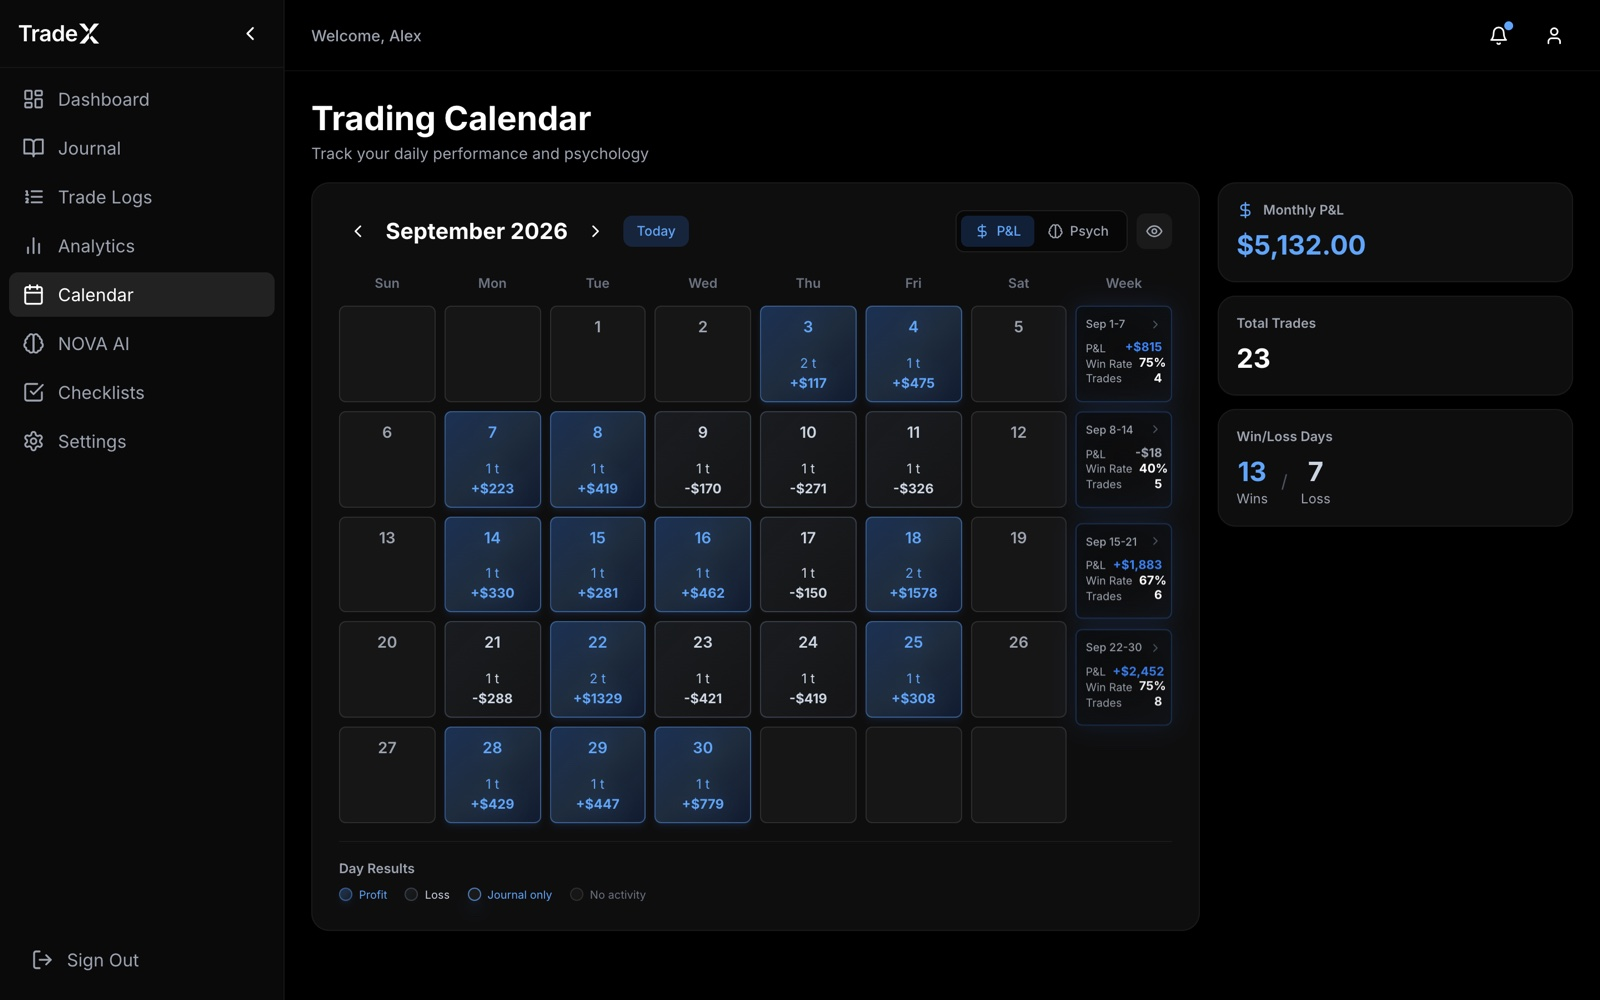
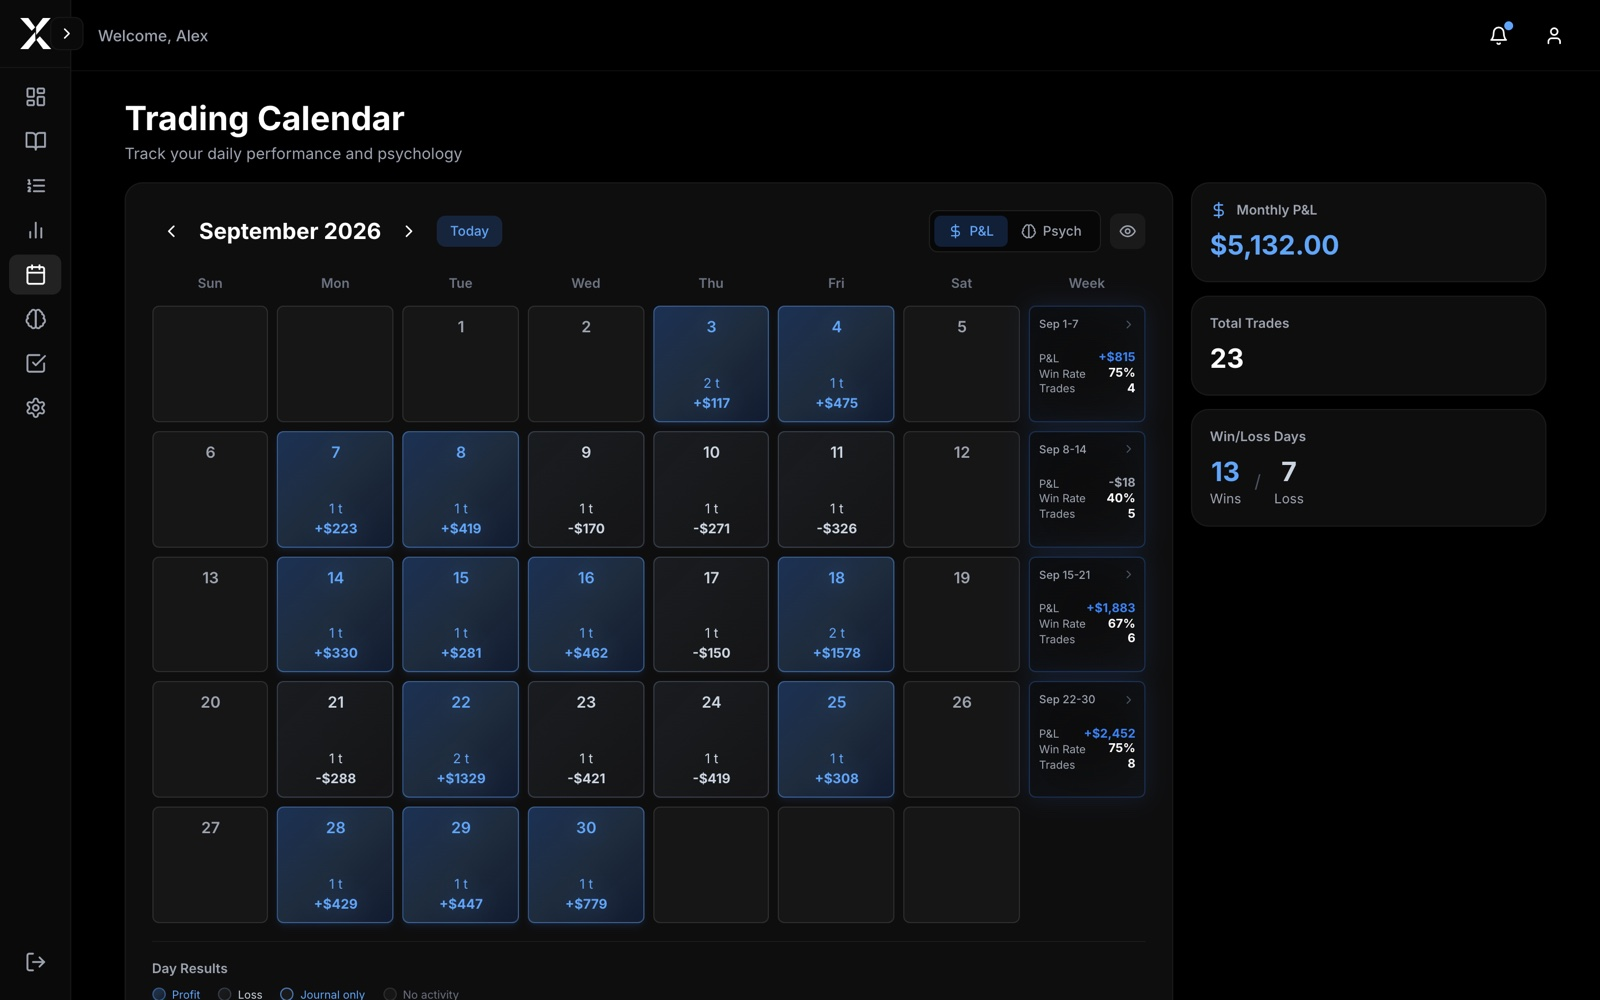
Replace Nova's drawn chat with Nova actually answering
Of all the hand-drawn UI on this page, the Nova section's was the least
defensible. It was a written chat bubble - "Why am I losing on Fridays?" with
an invented reply - sitting under a heading that claims the answer comes from
your own entries. An answer somebody typed into a marketing page cannot
demonstrate that. It demonstrates the opposite of it.

The screenshot is Nova answering for real on the demo account, with numbers
that came out of the database: eight ES trades at a 50% win rate netting
$124, against XAUUSD five from five for $3,502, and Thursdays as the only
losing day of the week. Nobody wrote those sentences. They are what the
account contains, which is the entire claim.

The three feature columns under it went too. "Writes your entries" was
repeating the section two above it, and the screenshot says the other two
better than a caption does.

Also in this pass:

- The nav is collapsed on every screenshot now, not just the journal. The set
  read as three different products, and eight nav labels are not the thing
  being sold on any of them.
- Calendar and analytics are stacked rather than side by side. Two 1600px
  screenshots in a two-column grid render about 550px wide, which is below
  the width at which any of their numbers can be read - the page was showing
  two pictures of something illegible and calling it a demonstration.
- vite.config's allowlist gains the Nova images. The page shipped a broken
[…]

diff --git a/src/pages/Sales.tsx b/src/pages/Sales.tsx
@@ -6,7 +6,6 @@ import Mascot from '../components/shared/Mascot';
 import { TIERS, IN_EVERY_PLAN, ALSO_INCLUDED } from '../lib/pricingTiers';
 import TranscriptToEntry from '../components/sales/TranscriptToEntry';
 import Wordmark from '../components/shared/Wordmark';
-import NovaAnswer from '../components/sales/NovaAnswer';
 import SyncMarquee from '../components/sales/SyncMarquee';
 import ProductShot from '../components/sales/ProductShot';
 import SectionHeader from '../components/sales/SectionHeader';
@@ -697,32 +696,31 @@ export default function Sales() {
               your entries, your numbers and the things you have told it twice.
           </SectionHeader>
 
-          <div className="rounded-2xl border border-white/[0.07] bg-brand-surface p-5 sm:p-7">
-            <div className="flex flex-col gap-4">
-              <div className="flex justify-end">
-                <p className="max-w-[85%] rounded-2xl rounded-br-sm bg-brand-elevated border border-white/[0.07]
-                  px-4 py-2.5 text-[13px] sm:text-sm text-gray-300">
-                  Why am I losing on Fridays?
-                </p>
-              </div>
+          {/*
+            A real conversation, not a written one.
 
-              <NovaAnswer />
-            </div>
+            This was a hand-built chat bubble - "Why am I losing on Fridays?"
+            with an invented reply underneath it - and of all the drawn UI on
+            this page it was the least defensible, because the claim the
+            section makes is that the answer comes from your own entries. An
+            answer somebody typed into a marketing page cannot demonstrate
+            that. It demonstrates the opposite.
 
-            <div className="mt-6 pt-5 border-t border-white/[0.06] grid grid-cols-1 sm:grid-cols-3 gap-4">
-              {[
-                ['Reads every entry', 'Not just the last one. Patterns show up across months, not trades.'],
-                ['Remembers you', 'Say it once, and Nova keeps hold of it.'],
-                ['Writes your entries', 'Talk it through and Nova files the whole thing for you.'],
-              ].map(([title, body]) => (
-                <div key={title}>
-                  <p className="text-[12.5px] font-medium text-white">{title}</p>
-                  <p className="mt-1 text-[12px] text-gray-500 leading-relaxed">{body}</p>
-                </div>
-              ))}
-            </div>
-            <p className="mt-5 text-center text-[11px] text-gray-600">Example conversation</p>
-          </div>
+            The screenshot is Nova actually answering, on the demo account,
+            with numbers that came out of the database: eight ES trades at a
+            50% win rate netting $124 against XAUUSD five from five, and
+            Thursdays as the only losing day of the week. Nobody wrote those.
+            They are what the account contains.
+
+            The three feature columns underneath went with it. One of them -
+            "Writes your entries" - was repeating the section two above, and
+            the other two are said better by the screenshot than by a caption.
+          */}
+          <ProductShot
+            src="/product/nova.jpg"
+            label="Nova"
+            alt="Nova answering a question about the trader's biggest leak, citing their ES win rate, their gold results and their Thursday performance."
+          />
 
           <p className="mt-7 text-center">
             <Link to="/nova-ai" className="inline-flex items-center gap-1.5 text-[13px] text-gray-500 hover:text-white transition-colors underline underline-offset-[3px] decoration-white/20 hover:decoration-white/50">
@@ -761,7 +759,17 @@ export default function Sales() {
               underneath that say which of your setups actually pays.
           </SectionHeader>
 
-          <div className="grid grid-cols-1 lg:grid-cols-2 gap-4 sm:gap-5">
+          {/*
+            Stacked, not side by side.
+
+            Two 1600px screenshots in a two-column grid render about 550px
+            wide each, which is below the width at which any of the numbers in
+            them can be read - so the page was showing two pictures of
+            something unreadable and calling it a demonstration. Full width
+            each, one after the other, costs vertical space the page can
+            afford and makes both of them legible.
+          */}
+          <div className="flex flex-col gap-5 sm:gap-6">
             <ProductShot
               src="/product/calendar.jpg"
               label="Calendar"

diff --git a/vite.config.ts b/vite.config.ts
@@ -81,7 +81,15 @@ const PUBLIC_FILES = [
   'product/dashboard-mobile.jpg',
   'product/journal-mobile.jpg',
   'product/calendar-mobile.jpg',
-  'product/analytics-mobile.jpg'
+  'product/analytics-mobile.jpg',
+  /*
+    Nova answering a real question. Added after the landing page shipped a
+    broken image for it: publicDir is false, so a file that is not named in
+    this list 404s and comes back as index.html. That is the third time this
+    list has caught something, which is the point of the warning below.
+  */
+  'product/nova.jpg',
+  'product/nova-mobile.jpg'
 ];
 
 export default defineConfig({
